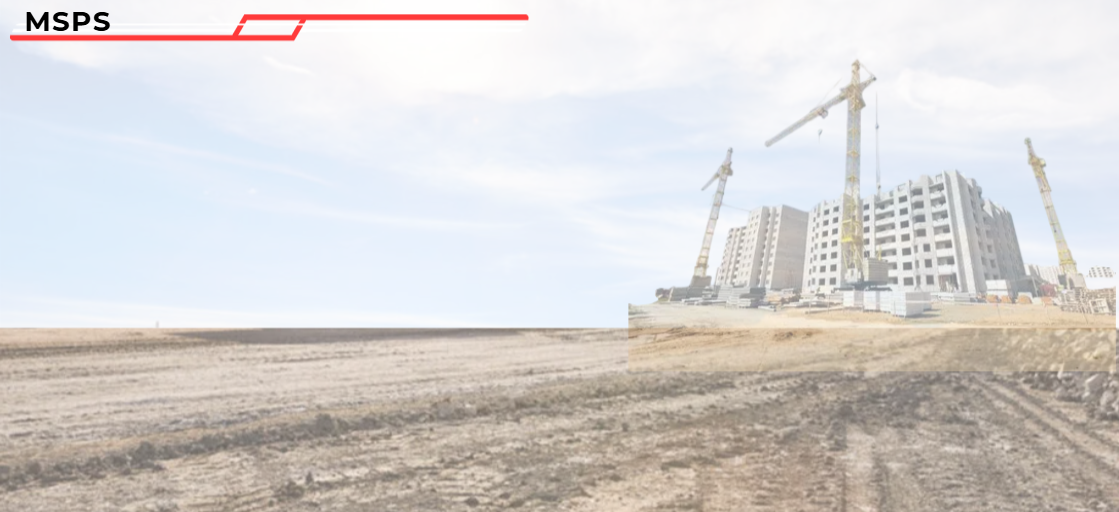
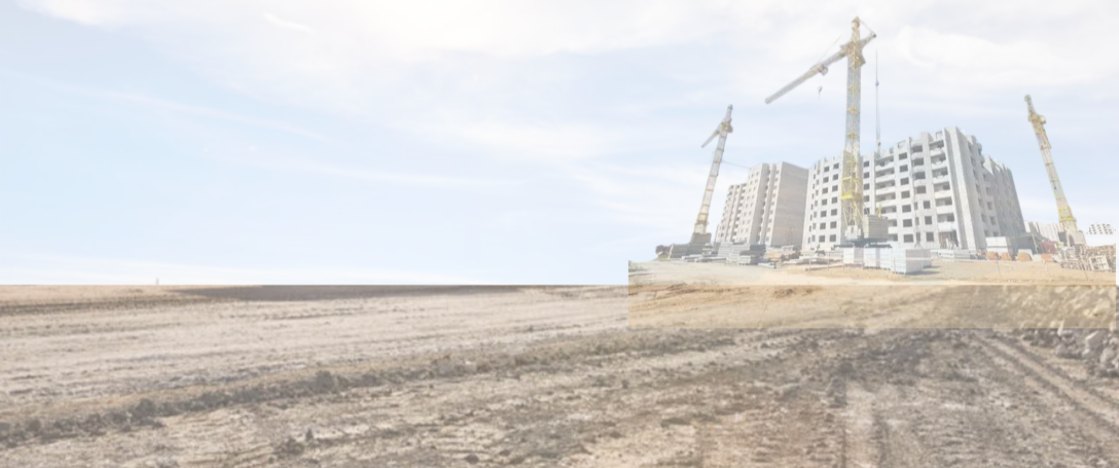
intentando arreglar la cabecera

diff --git a/msps/app/static/css/style.css b/msps/app/static/css/style.css
@@ -64,11 +64,13 @@ button {
 /* =========================================================
    Topbar (cabecera con imagen de fondo)
    =========================================================
-   El fondo es la franja superior de hero-fondo.png (la que trae dibujado
-   "MSPS" y la línea roja): mide 1600x138, es decir 8.625% del ancho. Como
-   es la MISMA imagen del hero, la cabecera y el hero se unen sin costura
-   (el hero esconde esa misma franja con margin-top: -8.625%).
-   El logo de la empresa queda abajo a la derecha de la línea roja. */
+   El fondo es la imagen dedicada del header (1600x138, "MSPS" + línea
+   roja): static/images/topbar/header-msps.jpg. La imagen del hero
+   (hero-fondo.png) trae esa misma franja dibujada arriba, así que el
+   hero la esconde con margin-top: -8.625% para que no se repita.
+   El enlace de marca (.topbar__brand) queda sin imagen propia porque
+   el "MSPS" ya viene dibujado en el fondo; solo sirve como zona
+   clicable para volver al inicio. */
 
 .topbar {
     position: relative;
@@ -78,22 +80,15 @@ button {
     width: 100%;
     aspect-ratio: 1600 / 138;
     padding: 0 40px;
-    background: #eff0f5 url("../images/hero/hero-fondo.png") left top / 100% auto no-repeat;
+    background: #eff0f5 url("../images/topbar/header-msps.jpg") center / cover no-repeat;
 }
 
 .topbar__brand {
     position: absolute;
-    left: 28.5%;
-    top: 34%;
-    height: 44%;
-    display: flex;
-    align-items: center;
-}
-
-.topbar__logo {
+    top: 0;
+    left: 0;
     height: 100%;
-    width: auto;
-    mix-blend-mode: multiply; /* el PNG del logo tiene fondo blanco: así se funde con el cielo */
+    width: 38%;
 }
 
 /* Nav + hazard-stripe strip */
@@ -107,32 +102,9 @@ button {
     padding: 14px 22px;
 }
 
-.topbar__nav::before,
-.topbar__nav::after {
-    content: "";
-    position: absolute;
-    left: 0;
-    right: 0;
-    height: 3px;
-    background-image: repeating-linear-gradient(
-        115deg,
-        var(--color-orange) 0,
-        var(--color-orange) 9px,
-        transparent 9px,
-        transparent 15px
-    );
-}
-
-.topbar__nav::before {
-    top: 0;
-}
-
-.topbar__nav::after {
-    bottom: 0;
-}
-
-/* Botones del menú: sin líneas separadoras; al pasar el mouse cambian de
-   color y aparece un cuadro que muestra hasta dónde llega cada botón. */
+/* Botones del menú: sin líneas separadoras; al pasar el mouse aparece
+   un cuadro sombreado con un color tenue que muestra hasta dónde llega
+   cada botón. */
 .topbar__link {
     display: flex;
     align-items: center;
@@ -143,7 +115,7 @@ button {
     white-space: nowrap;
     border: 2px solid transparent;
     border-radius: 8px;
-    transition: color 0.15s ease, background-color 0.15s ease, border-color 0.15s ease;
+    transition: color 0.15s ease, background-color 0.15s ease;
 }
 
 .topbar__link.is-active {
@@ -154,7 +126,6 @@ button {
 .topbar__link:focus-visible {
     color: var(--color-orange);
     background-color: rgba(255, 112, 32, 0.12);
-    border-color: var(--color-orange);
     outline: none;
 }
 
@@ -546,26 +517,20 @@ button {
    ========================================================= */
 
 @media (max-width: 1100px) {
-    /* Cabecera en pantallas medianas/pequeñas: franja con la imagen arriba,
-       y debajo el logo y el menú. */
+    /* Cabecera en pantallas medianas/pequeñas: franja con la imagen arriba
+       (ahí va el "MSPS"), y debajo el menú sobre color liso. */
     .topbar {
         display: block;
         aspect-ratio: auto;
         padding: calc(8.625vw + 10px) 20px 14px;
-        /* franja de imagen arriba; lo de abajo (logo + menú) sobre color liso */
         background:
             linear-gradient(#eff0f5, #eff0f5) left bottom / 100% calc(100% - 8.625vw) no-repeat,
-            url("../images/hero/hero-fondo.png") left top / 100% auto no-repeat;
+            url("../images/topbar/header-msps.jpg") left top / 100% auto no-repeat;
     }
 
     .topbar__brand {
-        position: static;
-        height: auto;
-        margin-bottom: 10px;
-    }
-
-    .topbar__logo {
-        height: 38px;
+        width: 100%;
+        height: calc(8.625vw + 10px);
     }
 
     .topbar__nav {

diff --git a/msps/app/templates/components/navbar.html b/msps/app/templates/components/navbar.html
@@ -1,7 +1,8 @@
 <header class="topbar">
-    <a class="topbar__brand" href="/" aria-label="Maquiservicio Pérez S.A.S. - Inicio">
-        <img class="topbar__logo" src="{{ url_for('static', path='/images/logo/logo-msps.png') }}" alt="Maquiservicio Pérez S.A.S. - Servicio y Alquiler de Equipos de Excavación">
-    </a>
+    <!-- La marca "MSPS" ya viene dibujada en la imagen de fondo del header
+         (static/images/topbar/header-msps.jpg), así que este enlace queda
+         sin imagen: solo es la zona clicable para volver al inicio. -->
+    <a class="topbar__brand" href="/" aria-label="Maquiservicio Pérez S.A.S. - Inicio"></a>
 
     <nav class="topbar__nav" aria-label="Navegación principal">
         {% for item in nav_items %}
@@ -10,6 +11,11 @@
 
         <div class="topbar__auth" data-auth-root>
             {% if sesion %}
+                {% if sesion.tipo == 'persona_natural' %}
+                    <a class="topbar__link" href="/unirse-empresa">Unirse a una empresa</a>
+                {% elif sesion.tipo == 'empresa' %}
+                    <a class="topbar__link" href="/mensajes">Mensajes</a>
+                {% endif %}
                 <span class="topbar__user">Hola, {{ sesion.nombre }}</span>
                 <form action="/logout" method="post" style="display:inline">
                     <button type="submit" class="topbar__link">Cerrar sesión</button>
